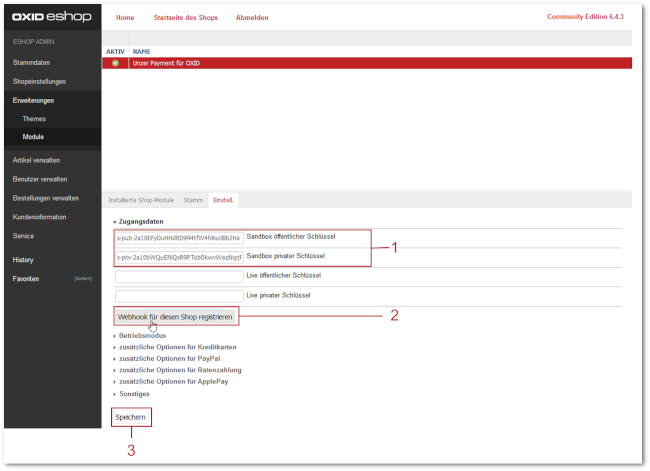
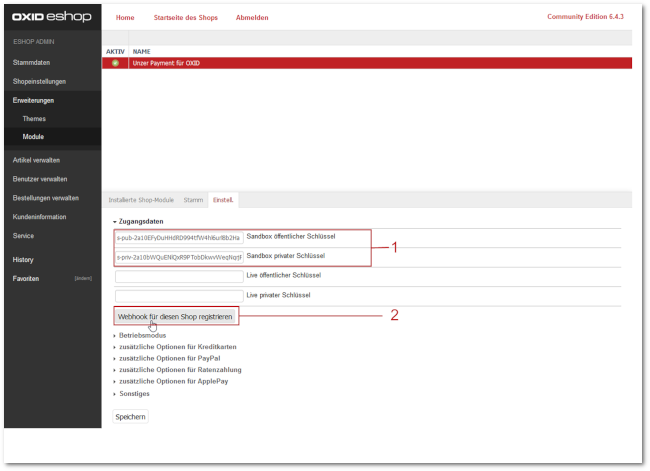
Apple Pay processes verified, minor corrections, open questions added

diff --git a/konfiguration.rst b/konfiguration.rst
@@ -20,17 +20,17 @@ Konfigurieren und testen Sie Unzer. Schalten Sie anschließend den Live-Betrieb 
 #. Wenn Sie :productname:`Apple Pay` nutzen, tun Sie Folgendes:
 
    a. Generieren Sie lokal die notwendigen Zertifikate.
-   b. Signieren Sie die Zertifikate in Ihrem :productname:`Apple Pay`-Unzer Payment für OXID.
+   b. Signieren Sie die Zertifikate in Ihrem Apple-Entwickler-Konto.
    c. Um Ihre :productname:`Apple Pay`-Zugangsdaten Unzer bekannt zu machen, geben Sie unter :guilabel:`Optionen für Apple Pay` die signierten Zertifikate ein und laden sie zu Unzer hoch.
-#. Optional: Konfigurieren Sie bei Bedarf unter :guilabel:`Zahlungsarten`, dass Zahlungen verzögert ausgelöst werden sollen (beispielsweise bei Geschäftskunden).
+#. Optional: Konfigurieren Sie bei Bedarf unter :guilabel:`Zusätzliche Optionen ...`, dass Zahlungen verzögert ausgelöst werden sollen (beispielsweise bei Geschäftskunden).
 #. Prüfen Sie, Ob das Theme Ihres eShops jQuery nutzt.
    |br|
-   Wenn das nicht der Fall ist, binden Sie jQuery unter :guilabel:`Sonstiges` über das Modul ein.
+   Wenn das nicht der Fall ist, binden Sie jQuery unter :guilabel:`Sonstiges` ein.
 #. Verknüpfen Sie die von Unzer bereitgestellten Zahlungsarten mit Ihren Versandarten und Versandkostenregeln und führen Sie Testzahlungen in der Unzer-Sandbox aus.
    |br|
    Die Betriebsart :technicalname:`Sandbox` ist nach dem Aktivieren standardmäßig eingestellt.
 #. Testen Sie Unzer in der Unzer-Sandbox und passen Sie die Konfiguration an, bis alle Zahlungsprozesse nach Ihren Vorstellungen funktionieren.
-#. Wenn Sie Ihre Tests abgeschlossen haben, wechseln Sie unter :guilabel:`Umgebung` in die Betriebsart :technicalname:`Livebetrieb`.
+#. Wenn Sie Ihre Tests abgeschlossen haben, wechseln Sie unter :guilabel:`Betriebsmodus` in die Betriebsart :technicalname:`Livebetrieb`.
 #. Wenn Sie die Tests auf einem dedizierten Testsystem durchgeführt haben und Ihren eShop dann in das Produktionssystem umziehen, generieren Sie die Webhooks für die URL des Produktionssystems neu.
 
 Unzer aktivieren
@@ -41,12 +41,12 @@ Aktivieren Sie Unzer in jedem Subshop, in dem Sie das Modul nutzen wollen.
 |procedure|
 
 1. Wählen Sie :menuselection:`Erweiterungen --> Module`. 
-2. Wählen Sie das Modul `Unzer Payment-Modul für OXID` und wählen Sie :menuselection:`Stamm --> Aktivieren`.
+2. Wählen Sie das Modul :guilabel:`Unzer Payment-Modul für OXID` und wählen Sie :menuselection:`Stamm --> Aktivieren`.
 
 
 |result|
 
-Unter :menuselection:`Shopeinstellungen --> Zahlungsarten` sind die Zahlungsarten, die das Modul :guilabel:`Unzer Payment-Modul für OXID` abdeckt, als aktiv gekennzeichnet.
+Unter :menuselection:`Shopeinstellungen --> Zahlungsarten` sind die Zahlungsarten, die :productname:`Unzer Payment for OXID` abdeckt, als aktiv gekennzeichnet.
 
 Aktiv sind automatisch diejenigen Zahlungsarten, die zu den Ländern passen, die Sie unter :menuselection:`Stammdaten --> Länder` als aktiv markiert haben (:ref:`oxdamc01`).
 
@@ -95,7 +95,7 @@ Weitere Informationen zum Registrieren bei Unzer finden Sie unter `unzer.com/de/
 
 1. Geben Sie unter :menuselection:`Einstell. --> Zugangsdaten` die von Unzer bereitgestellten Keys in die entsprechenden Felder ein (:ref:`oxdamc02`, Pos. 1).
 #. Wählen Sie die Schaltfläche :guilabel:`Webhook für diesen Shop registrieren` (:ref:`oxdamc02`, Pos. 2).
-#. Speichern Sie Ihre Einstellungen (:ref:`oxdamc02`, Pos. 3).
+
 
 .. _oxdamc02:
 
@@ -139,8 +139,6 @@ In bestimmten Fällen ist es sinnvoll, dass die Zahlung erst durch die Ausliefer
 
 ----------------------------------------------------------------------
 
-.. todo: EN/DE: capture/authorize = Einziehen/Autorisieren
-
 |procedure|
 
 1. Wählen Sie :menuselection:`Einstell. --> zusätzliche Optionen für Kreditkarten`.
@@ -154,12 +152,10 @@ In bestimmten Fällen ist es sinnvoll, dass die Zahlung erst durch die Ausliefer
    |br|
    Die verzögerte Zahlung für Zahlung per :productname:`PayPal` oder :productname:`Kartenzahlung` greift für alle Artikel in Ihrem eShop, denen Sie diese Zahlungsarten zugeordnet haben.
 
-.. todo: #EN/DE: Terminologie: Authorize & later Capture usw. für Autorisieren/Einziehen; Kartenzahlung/card
-
 
 |result|
 
-Die Bestellung hat den Status :guilabel:`Ausstehend` (siehe :ref:`betrieb:Betrieb`, :ref:`oxdamd02`).
+Die Bestellung hat den Status :guilabel:`ausstehend` (siehe :ref:`oxdamd02` in Kapitel :ref:`betrieb:Betrieb`).
 
 Wenn Sie für Zahlung per PayPal oder Kartenzahlung :guilabel:`Autorisieren` gewählt haben, wird die verzögerte Zahlung ausgelöst,
 
@@ -174,11 +170,13 @@ Optionen für Ratenzahlung: Unzer-Zinssatz eingeben
 
 Geben Sie den Zinssatz für Ratenzahlungen ein, den Sie mit Unzer vereinbart haben.
 
-Aus technischen Gründen müssen Sie den Ratenzahlungszinssatz, den Sie mit Unzer vereinbart haben, manuell eingeben.
+
 
 .. ATTENTION::
 
    **Konversion gefährdet**
+
+   Aus technischen Gründen müssen Sie den Ratenzahlungszinssatz, den Sie mit Unzer vereinbart haben, manuell eingeben.
 
    Wenn Sie versehentlich einen abweichenden Wert eingeben, ist kein Checkout möglich, und Ihr Kunde springt wahrscheinlich ab.
 
@@ -213,6 +211,8 @@ Dazu generieren Sie die folgenden :productname:`Apple Pay`-Zugangsdaten, lassen 
 #. Erzeugen Sie ein von Apple signiertes Zertifikat zur Zahlungsabwicklung und den dazu gehörenden privaten Schlüssel zur Zahlungsabwicklung im Format PKCS#8 (siehe: :ref:`applepay/applepay-zertifikate:Zahlungs-Zertifikat erzeugen`).
 #. Wählen Sie :menuselection:`Einstell. --> Optionen für Apple Pay`
 #. Geben Sie Zahlungs-Zertifikat und Schlüssel in die entsprechenden Eingabefelder ein:
+   |br|
+   Achten Sie darauf, Präfix und Suffix anzugeben (z.B. ``-----BEGIN PRIVATE KEY-----``).
 
    * Öffnen Sie die :file:`pem`-Datei mit dem Zertifikat zur Zahlungsabwicklung (in unserem Beispiel :file:`apple_pay.pem`) und kopieren Sie den Inhalt in das Feld :guilabel:`Zertifikat zur Zahlungsabwicklung`.
    * Öffnen Sie die Text-Datei mit dem privaten Schlüssel zur Zahlungsabwicklung (in unserem Beispiel :file:`privatekey.key`) und kopieren Sie den Inhalt in das Feld :guilabel:`Privater Schlüssel zur Zahlungsabwicklung`.
@@ -226,6 +226,8 @@ Dazu generieren Sie die folgenden :productname:`Apple Pay`-Zugangsdaten, lassen 
    * Öffnen Sie die Text-Datei mit dem privaten Schlüssel zum Händler-Zertifikat (in unserem Beispiel :file:`merchant_id.key`) und kopieren Sie den Inhalt in das Feld :guilabel:`Privater Schlüssel zur Zahlungsabwicklung`.
 #. Geben Sie im Feld :guilabel:`Firma` Ihren Firmennamen ein.
 #. Markieren Sie unter :guilabel:`Unterstützte Kreditkarten` das Kreditkarten-Unternehmen, deren Kreditkarte Ihrem Apple Pay-Konto zugeordnet ist.
+
+.. todo: #ML: Ist das Feld Firma weggefallen? "Geben Sie im Feld :guilabel:`Firma` Ihren Firmennamen ein."
 
    .. attention::
 
@@ -267,7 +269,7 @@ Schiefgehen kann allerdings nichts: Bei Währungen, die :productname:`Apple Pay`
    #. Prüfen Sie in dem Eingabefeld für Währungen, ob Sie Währungen hinzufügen oder entfernen wollen.
 #. Um eine saubere Konfiguration sicherzustellen, tun Sie Folgendes:
 
-   #. Wählen Sie für die Zahlungsart :productname:`Apple Pay` die Registerkarte :guilabel:`Länder`.
+   #. Wählen Sie unter :menuselection:`Shopeinstellungen --> Zahlungsarten` für die Zahlungsart :productname:`Apple Pay` die Registerkarte :guilabel:`Länder`.
    #. Stellen Sie sicher, dass nur solche Länder zugeordnet sind, welche die von :productname:`Apple Pay` unterstützten Währungen haben.
 
 

diff --git a/applepay/applepay-zertifikate.rst b/applepay/applepay-zertifikate.rst
@@ -23,6 +23,7 @@ Apple Pay-Händler-ID anlegen
 Generieren Sie die die Händler-ID, die Sie im Feld :guilabel:`Shopbetreiber Identifikation` eingeben müssen.
 
 
+
 |procedure|
 
 1. Um ein Apple-Entwickler-Konto anzulegen, legen Sie unter `appleid.apple.com <https://appleid.apple.com/>`_ eine Apple-ID an.
@@ -30,9 +31,6 @@ Generieren Sie die die Händler-ID, die Sie im Feld :guilabel:`Shopbetreiber Ide
 #. Wählen Sie :guilabel:`Certificates, Identifiers & Profiles`.
 #. Wählen Sie im Menü den Eintrag :guilabel:`Identifiers` und dann das :guilabel:` Add Identifiers`-Symbol (+)`.
 #. Unter :guilabel:`Register a new Identifier` wählen Sie :guilabel:`Merchant IDs` und bestätigen mit :guilabel:`Continue`.
-#. Unter :guilabel:`Edit or Configure Merchant ID` geben Sie Folgendes ein:
-   .. todo:  add info
-
 #. Unter :guilabel:`Register a Merchant ID` geben Sie Folgendes ein:
 
    * :guilabel:`Description`: Beschreibung der Anwendung
@@ -105,7 +103,6 @@ Lassen Sie das Zertifikat von Apple signieren.
 |prerequisites|
 
 * Sie haben eine Apple-Händler-ID angelegt (siehe :ref:`applepay/applepay-zertifikate:Apple Pay-Händler-ID anlegen`).
-
 
 |procedure|
 
